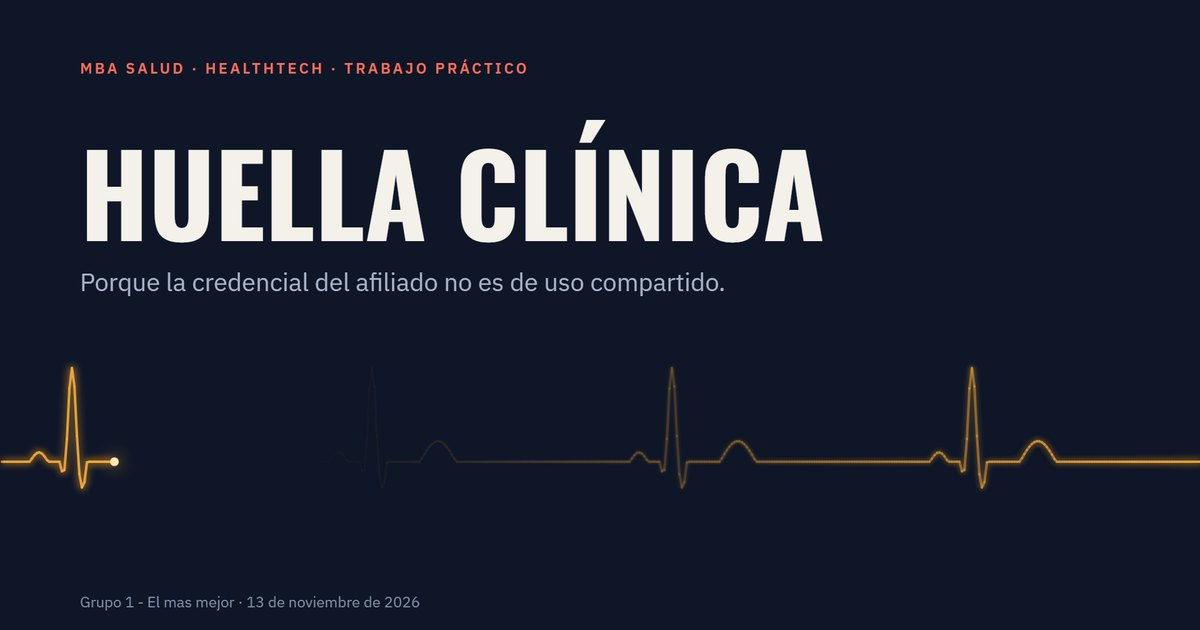
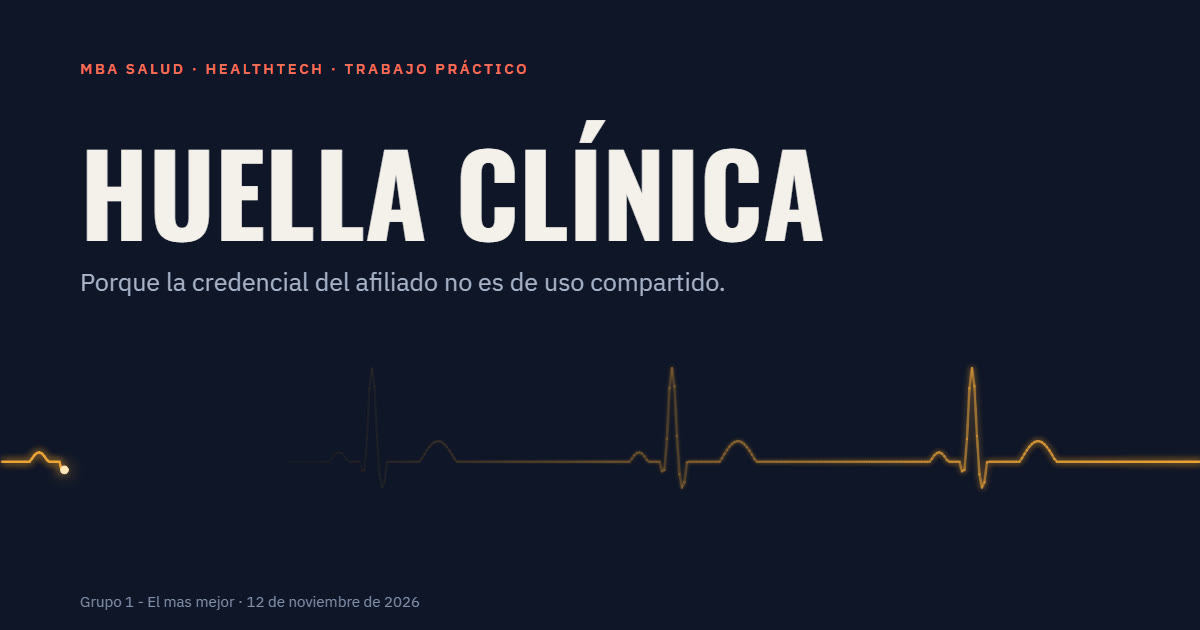
Portada: 12 de noviembre de 2026

diff --git a/index.html b/index.html
@@ -76,7 +76,7 @@ requestAnimationFrame(draw);
 <p style="font-size:24px;font-weight:600;letter-spacing:4px;text-transform:uppercase;color:#F0705A">MBA Salud · Healthtech · Trabajo práctico</p>
 <h1 data-build-in="rise 1 auto" style="position:absolute;left:128px;top:250px;width:1664px;font-family:'Oswald', Arial, sans-serif;font-size:180px;font-weight:700;line-height:1;text-transform:uppercase;color:#F4F1EA">Huella Clínica</h1>
 <p data-build-in="fade 2 auto" style="position:absolute;left:128px;top:460px;width:1600px;font-size:40px;line-height:1.3;color:#A9B4C8">Porque la credencial del afiliado no es de uso compartido.</p>
-<p style="position:absolute;left:128px;bottom:64px;width:1200px;font-size:24px;color:#8290A8">Grupo 1 - El mas mejor · 13 de noviembre de 2026</p>
+<p style="position:absolute;left:128px;bottom:64px;width:1200px;font-size:24px;color:#8290A8">Grupo 1 - El mas mejor · 12 de noviembre de 2026</p>
 
 </section>
 <section id="noticias" data-transition="fade" style="background:#0E1628;color:#F4F1EA;font-family:'IBM Plex Sans', Arial, sans-serif;padding:128px 128px 160px;display:flex;flex-direction:column">
